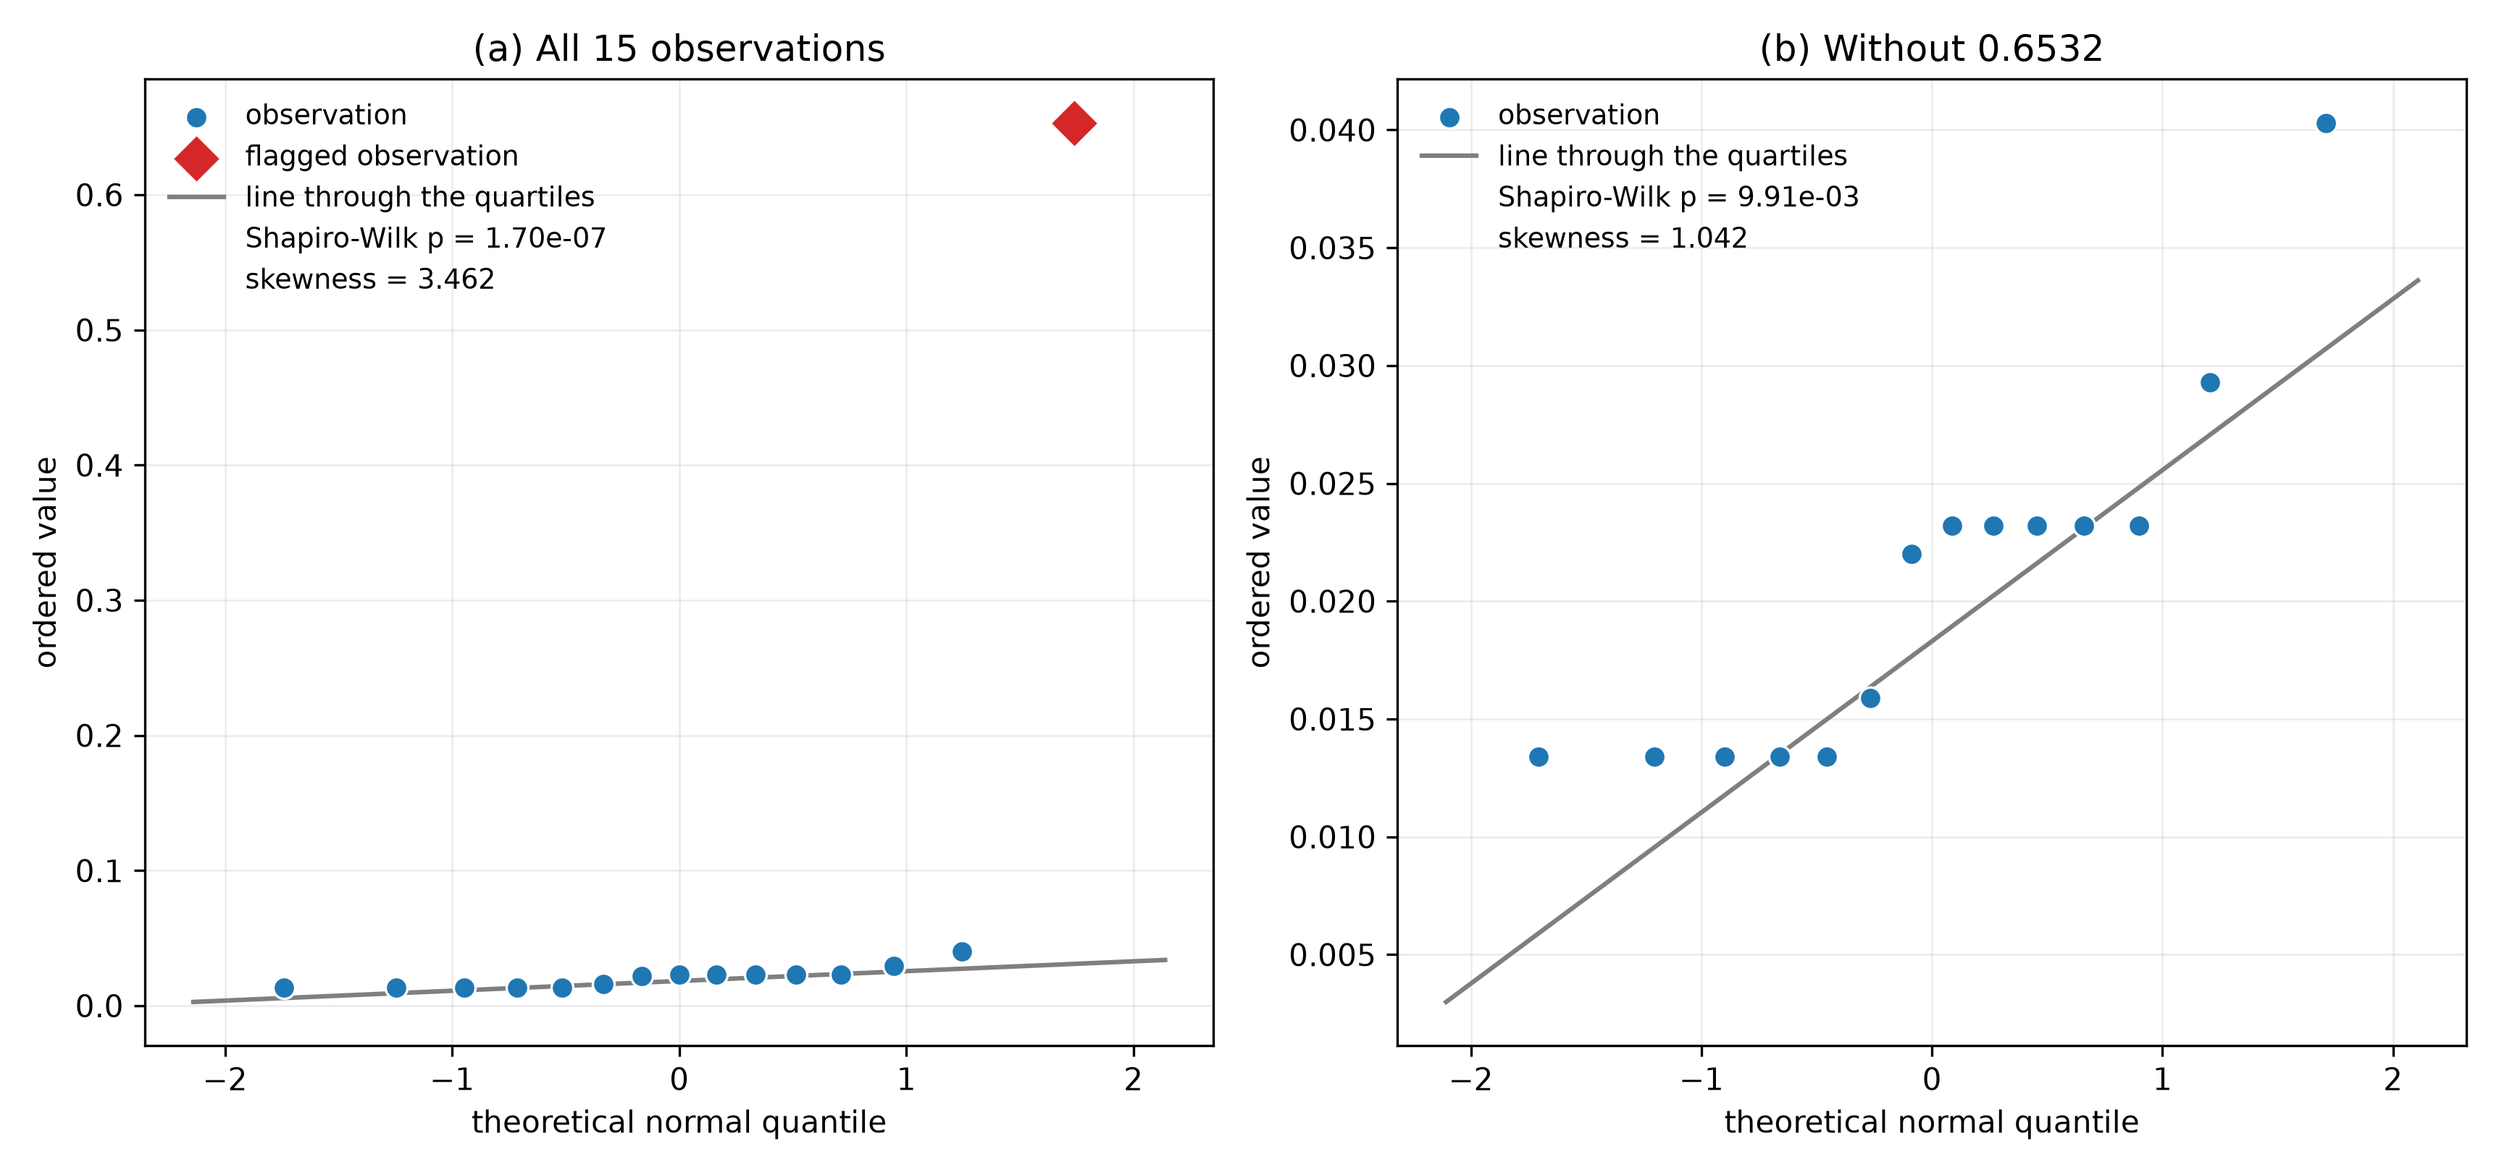
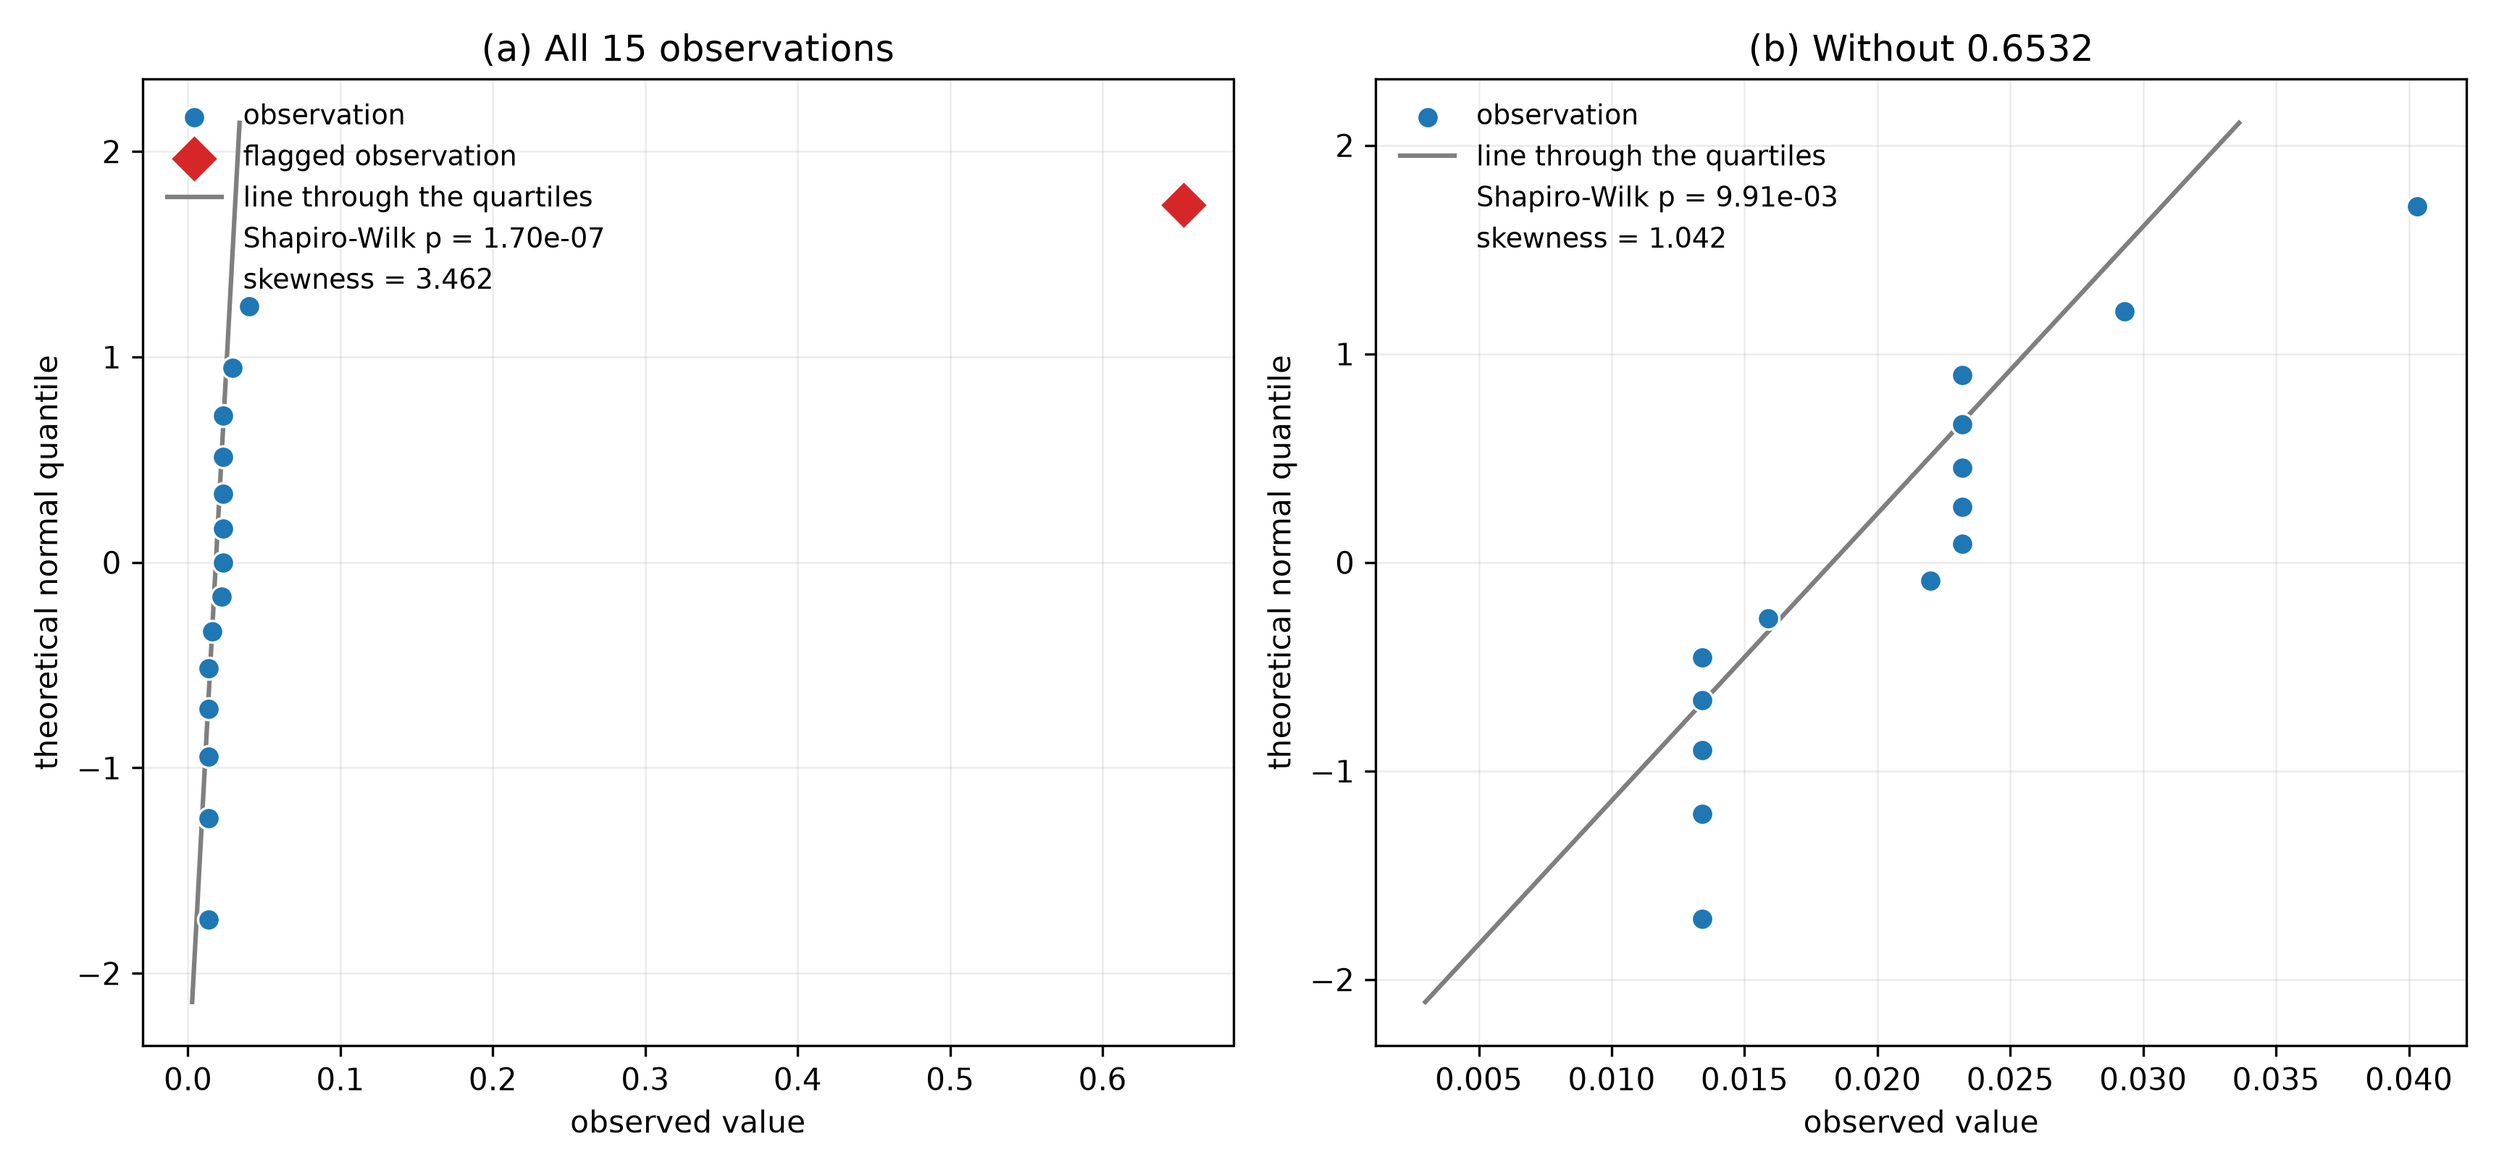
Rename the Hampel worked example script and revise the document prose
Rename hampel_sample_outliers.py to hampel_worked_example.py so the file
name says what it produces, and put the observation on the x axis of Fig 1
with the theoretical normal quantile on y.

Read hampel-identifier.md end to end and fix 18 places: the Fig 1
descriptions that the axis switch had made wrong, a blockquote still
advertising a deleted section, sentence fragments in the body and in
Table 1, an Appendix C preamble that still claimed two rules produce
scores, and several repeated or context-broken phrases.

Claude-Session: https://claude.ai/code/session_01SvydS2XzJkDTVQAeYiHvTf

diff --git a/EDA/Outlier/Hampel/hampel_worked_example.py b/EDA/Outlier/Hampel/hampel_worked_example.py
@@ -5,6 +5,7 @@ normal with or without it. One figure is drawn, the normal quantile panels behin
 claim, and the sample is written out with the score each observation receives.
 
 Changelog:
+    0.4.0 - Rename the file to hampel_worked_example.py and put the observation on the x axis.
     0.3.1 - Follow the scale becoming private; the printed scale is built from public names.
     0.3.0 - Follow the split of hampel_test into hampel_score, hampel_scale and score_frame.
     0.2.0 - Drop the boundary, sensitivity and breakdown figures; keep the quantile panels.
@@ -14,7 +15,7 @@ Changelog:
 """
 
 __author__ = 'yRocket'
-__version__ = "0.3.1.2026.8.18"  # Semantic Versioning: Major.Minor.Patch.Date(YYYY.M.D)
+__version__ = "0.4.0.2026.8.18"  # Semantic Versioning: Major.Minor.Patch.Date(YYYY.M.D)
 
 import argparse
 import pathlib
@@ -115,26 +116,27 @@ def plot_normality(data: np.ndarray = None, statistics: pd.DataFrame = None,
     views = {name: available[name] for name in drawn}
     titles = {'full': f"(a) All {data.size} observations", 'without_extreme': f"(b) Without {data.max():g}",
               'log10': f"(c) All {data.size} observations, log10"}
-    labels = {'full': 'ordered value', 'without_extreme': 'ordered value', 'log10': 'ordered log10(value)'}
+    labels = {'full': 'observed value', 'without_extreme': 'observed value',
+              'log10': 'observed log10(value)'}
     figure, axes = plt.subplots(1, len(views), figsize=(11.5, 5.4))
     rows = []
     for axis, (name, values) in zip(axes, views.items()):
         ordered = np.sort(values)
         quantiles = normal_quantiles(count=ordered.size)
         extreme = np.isclose(ordered, ordered.max()) & (name != 'without_extreme')
-        axis.scatter(quantiles[~extreme], ordered[~extreme], s=52, color=COLOR_POINT,
+        axis.scatter(ordered[~extreme], quantiles[~extreme], s=52, color=COLOR_POINT,
                      edgecolors='white', linewidths=0.8, zorder=3, label='observation')
         if extreme.any():
-            axis.scatter(quantiles[extreme], ordered[extreme], s=130, color=COLOR_FLAGGED, marker='D',
+            axis.scatter(ordered[extreme], quantiles[extreme], s=130, color=COLOR_FLAGGED, marker='D',
                          edgecolors='white', linewidths=0.8, zorder=4, label='flagged observation')
         intercept, slope = quartile_line(values=ordered)
         grid = np.linspace(quantiles.min() - 0.4, quantiles.max() + 0.4, 50)
-        axis.plot(grid, intercept + slope * grid, color=COLOR_REFERENCE, linewidth=1.5,
+        axis.plot(intercept + slope * grid, grid, color=COLOR_REFERENCE, linewidth=1.5,
                   label='line through the quartiles')
         axis.plot([], [], ' ', label=f"Shapiro-Wilk p = {statistics.loc[name, 'shapiro_p']:.2e}")
         axis.plot([], [], ' ', label=f"skewness = {statistics.loc[name, 'skewness']:.3f}")
-        axis.set_xlabel('theoretical normal quantile')
-        axis.set_ylabel(labels[name])
+        axis.set_xlabel(labels[name])
+        axis.set_ylabel('theoretical normal quantile')
         axis.set_title(titles[name])
         axis.legend(loc='upper left', frameon=False, fontsize=9)
         axis.grid(alpha=0.25, linewidth=0.6)

diff --git a/EDA/Outlier/Hampel/hampel-identifier.md b/EDA/Outlier/Hampel/hampel-identifier.md
@@ -1,8 +1,8 @@
 # Hampel Identifier — Flagging Outliers with the Median and the MAD
-Rev. 26 | Created: 2026-08-17 | Updated: 2026-08-18 01:52 CDT
+Rev. 27 | Created: 2026-08-17 | Updated: 2026-08-18 06:58 CDT
 
 > A note on the modified z-score built from the median and the median absolute deviation,
-> organized as the score, its robustness, and the treatment of what it flags.
+> organized as the score and then the robustness that the score rests on.
 
 ## 1. Scope
 
@@ -12,8 +12,8 @@ in that ratio are computed from the same sample the observation belongs to, so a
 inflates the quantity it is being measured against.
 
 The Hampel identifier replaces the pair with the median and the median absolute deviation, the
-MAD. Those two are unmoved by a minority of contaminating observations, so the scale stays a description of
-the bulk of the sample rather than of the observation under test.
+MAD. A minority of contaminating observations cannot move either, so the scale keeps describing
+the bulk of the sample rather than the observation under test.
 
 ## 2. Modified z-score
 
@@ -25,10 +25,10 @@ $$\mathrm{MAD} = \mathrm{median}\left( \left| x_1 - \tilde{x} \right|, \ldots, \
 
 $$M_i = \frac{x_i - \tilde{x}}{\mathrm{MAD} / \Phi^{-1}(0.75)}$$
 
-Here $\Phi^{-1}(0.75) = 0.674490$ is the third quartile of the standard normal distribution, and
-the denominator as a whole is the robust scale. The score $M_i$ is an ordinary z-score with the
-median put in place of the mean and the robust scale in place of the standard deviation, which is
-why it is called the modified z-score.
+The denominator is the robust scale, and the constant $\Phi^{-1}(0.75) = 0.674490$ that builds it
+is the subject of section 2.2. The score $M_i$ is an ordinary z-score with the median put in place
+of the mean and the robust scale in place of the standard deviation, which is why it is called the
+modified z-score.
 
 ### 2.2. Consistency Constant
 
@@ -88,12 +88,11 @@ or Qn.
 ### 3.2. Contaminated Scale
 
 A sample standard deviation is a mean of squared deviations, so a single distant observation
-enters it quadratically. The larger the outlier, the larger the denominator it is divided by,
-and the two effects work against each other.
+enters it quadratically. Pushing that observation further out enlarges its own deviation and the
+standard deviation together, so the ratio of the two grows far more slowly than the distance does.
 
 The median absolute deviation is a median of absolute deviations. Moving one observation
-arbitrarily far changes which value sits at the middle of that list by at most one position, and
-if the sample is large enough it does not change it at all.
+arbitrarily far moves the middle of that list by at most one position, however far it is moved.
 
 The same self-reference, an observation inflating the scale that it is measured against, also
 caps the classical score at a value no sample can exceed.
@@ -102,13 +101,13 @@ that cap out.
 
 ### 3.3. Breakdown Point
 
-The mean and the standard deviation break down at one observation. The median and the MAD break
-down only when more than half the sample is corrupted.
+One corrupted observation is enough to break the mean and the standard deviation. Breaking the
+median or the MAD takes more than half the sample.
 
 An estimate breaks down when it stops describing the sample and describes the corrupted
-observations instead. It does not stop computing. Setting one observation of the worked example
-to a billion takes the mean past 66 million while the median stays at 0.0232, and a mean of 66
-million says nothing about fifteen observations that otherwise sit near 0.02.
+observations instead. The calculation still returns a number. Setting one observation of the
+worked example to a billion takes the mean past 66 million while the median stays at 0.0232, and
+a mean of 66 million says nothing about the fourteen observations that still sit near 0.02.
 
 The breakdown point is the fraction of the sample that has to be corrupted for that to happen.
 
@@ -116,11 +115,11 @@ The breakdown point is the fraction of the sample that has to be corrupted for t
 
 | Estimator | Breakdown point | What it takes to break it |
 |---|---|---|
-| Mean and standard deviation | 0% | One observation, moved far enough |
-| Median and MAD | 50% | Eight of the fifteen; seven leave the median at 0.0403, a real observation |
+| Mean and standard deviation | 0% | One observation is enough, if it is moved far enough. |
+| Median and MAD | 50% | Eight of the fifteen are needed. Seven leave the median at 0.0403, which is still one of the real observations. |
 
-This is the whole of the reason the method works. Section 2 is the arithmetic of putting the
-robust pair on a scale that a threshold can be read against.
+The breakdown point is the whole reason the method works. Section 2 is nothing more than the
+arithmetic that puts the robust pair on a scale a threshold can be read against.
 
 ## References
 
@@ -146,7 +145,7 @@ robust pair on a scale that a threshold can be read against.
 - **breakdown point** — The fraction of a sample that has to be corrupted before a statistic becomes unusable. The mean has a breakdown point of 0%, because one corrupted observation is enough to take it anywhere. The median has 50%, because more than half the sample has to be corrupted before it leaves the uncontaminated data.
 - **consistency constant** — A factor applied to a robust scale estimate so that it converges to the standard deviation under an assumed distribution.
 - **contamination** — The fraction of a sample that does not come from the assumed distribution.
-- **MAD** — Median absolute deviation; see that entry.
+- **MAD** — The abbreviation used throughout for the median absolute deviation.
 - **median absolute deviation (MAD)** — The median of the absolute deviations of the observations from the sample median, used as a scale estimate that a minority of extreme observations cannot inflate. On a normal sample it converges to 0.674490 times the standard deviation rather than to the standard deviation itself, which is why section 2.2 divides it by that constant before using it as a scale.
 - **modified z-score** — The deviation from the median divided by the rescaled MAD.
 - **Qn** — A robust scale estimator taking an order statistic of the pairwise distances between observations, with a 50% breakdown point and better behaviour than the MAD under ties.
@@ -228,14 +227,14 @@ def retained_interval(data: np.ndarray = None, threshold: float = DEFAULT_THRESH
 
 ## Appendix C. Worked Example
 
-Every number in this appendix is produced by `hampel_sample_outliers.py`, invoked as
-`python3 hampel_sample_outliers.py --threshold 3.5`. The sample is fixed inside the script and
+Every number in this appendix is produced by `hampel_worked_example.py`, invoked as
+`python3 hampel_worked_example.py --threshold 3.5`. The sample is fixed inside the script and
 the points behind the figure are written beside it as CSV.
 
-Two rules are applied to the same data throughout. **The identifier** is the method of section 2,
-which scores an observation against the median and the MAD. **The classical rule** scores it
-against the mean and the standard deviation instead, and flags at the same threshold of 3.5. The
-scores they produce are the modified z of section 2.1 and the ordinary z-score.
+Two rules are set against each other in C.1. **The identifier** is the method of section 2, which
+measures an observation against the median and the MAD. **The classical rule** measures it against
+the mean and the standard deviation instead. Table 3 puts the centre and the scale each one
+computes side by side.
 
 ### C.1. Sample
 
@@ -288,17 +287,18 @@ observations; the classical scale describes the outlier.
 
 ### C.2. Normality
 
-The identifier does not need normality for its detection to be meaningful, and section 2.2 says
-that normality is what makes the threshold readable as a false-positive rate. This sample is the
-case where that distinction matters, because it is not normal.
+Normality enters the method only through the constant of section 2.2, which is what lets the
+threshold be read as a false-positive rate. The detection itself does not need it. This sample is
+where that distinction matters, because it is not normal.
 
 ![Fig 1](hampel-identifier_fig/hampel_normality.png)
 
 **Fig 1. Normal quantile plots of the sample and of the sample without its extreme value**
 
-The reference line runs through the first and third quartiles rather than being fitted by least
-squares, so the extreme observation cannot rotate it and flatten the departure the panel is drawn
-to show.
+The observation is on the horizontal axis and the quantile a normal sample would put there is on
+the vertical one, so a normal sample would fall along the line. The line runs through the first
+and third quartiles rather than being fitted by least squares, which keeps the extreme
+observation from rotating it toward itself and hiding the departure the panel is drawn to show.
 
 **Table 4. Normality under three views of the sample**
 
@@ -314,11 +314,11 @@ if that hypothesis were true, so a p-value below the chosen level says the obser
 unlikely under normality to be put down to sampling variation, and the hypothesis is rejected.
 
 All three p-values fall below 0.05, and all three fall below 0.01 as well, though the middle row
-falls below the stricter level by only 0.0001 and should not be read as decisive there. What puts each
-view below the level is a different feature of the data.
+falls below the stricter level by only 0.0001 and should not be read as decisive there. What puts
+each view below the level is a different feature of the data.
 
-- The full sample fails because of one observation. The value 0.6532 is 28 times the median, and panel (a) shows it far off the line while the other 14 lie almost flat against it. The skewness of 3.462 is that one point.
-- The sample without it fails because the data are discrete. The remaining 14 observations take only 6 distinct values, with 5 tied at 0.0134 and 5 at 0.0232, so panel (b) rises in steps rather than along the line. A normal distribution is continuous and produces no ties at all, so a sample with ten of them cannot look normal however the extremes are treated.
+- The full sample fails because of one observation. The value 0.6532 is 28 times the median, so panel (a) compresses the other 14 into a narrow column on the left and strands that one point far to the right of the line. The skewness of 3.462 is that point.
+- The sample without it fails because the data are discrete. The remaining 14 observations take only 6 distinct values, with 5 tied at 0.0134 and 5 at 0.0232, so panel (b) stacks those ties into vertical columns instead of following the line. A normal distribution is continuous and produces no ties at all, so a sample carrying ten of them cannot look normal however its extremes are treated.
 - The log view, computed but not plotted, fails for the same reason as the first. A logarithm compresses ratios, but 0.6532 remains 48.7 times the smallest observation afterwards, so it stays isolated and the skewness falls only from 3.462 to 2.780.
 
 The second row is the one that matters for this document, because it is the reason the sample
@@ -328,8 +328,8 @@ distribution; the size of the departure does not rest on that approximation.
 
 ## Appendix D. Ceiling of the Classical Score
 
-The self-reference of section 3.2 has a consequence that is easy to miss. For a sample of size $n$ the
-largest attainable absolute z-score is bounded, whatever the data are.
+The self-reference of section 3.2 bounds the classical score. For a sample of size $n$ the largest
+absolute z-score that can occur is fixed by $n$ alone, whatever the data are.
 
 $$\max_i \left| z_i \right| \le \frac{n-1}{\sqrt{n}}$$
 
@@ -346,6 +346,6 @@ holds for every sample of that size.
 | 20 | 4.2485 | Reachable |
 | 54 | 7.2124 | Reachable |
 
-For $n \le 14$ a rule that flags an observation when its classical z-score exceeds 3.5 cannot
-flag anything, no matter how extreme the sample is. The modified score of section 2.1 carries no such
-bound, because its denominator stops responding to the observation in the numerator.
+For $n \le 14$ a rule that flags an observation when its classical z-score exceeds 3.5 cannot flag
+anything, no matter how extreme the sample is. The modified z-score of section 2.1 has no such
+bound, because its denominator stops responding to the observation in its numerator.
